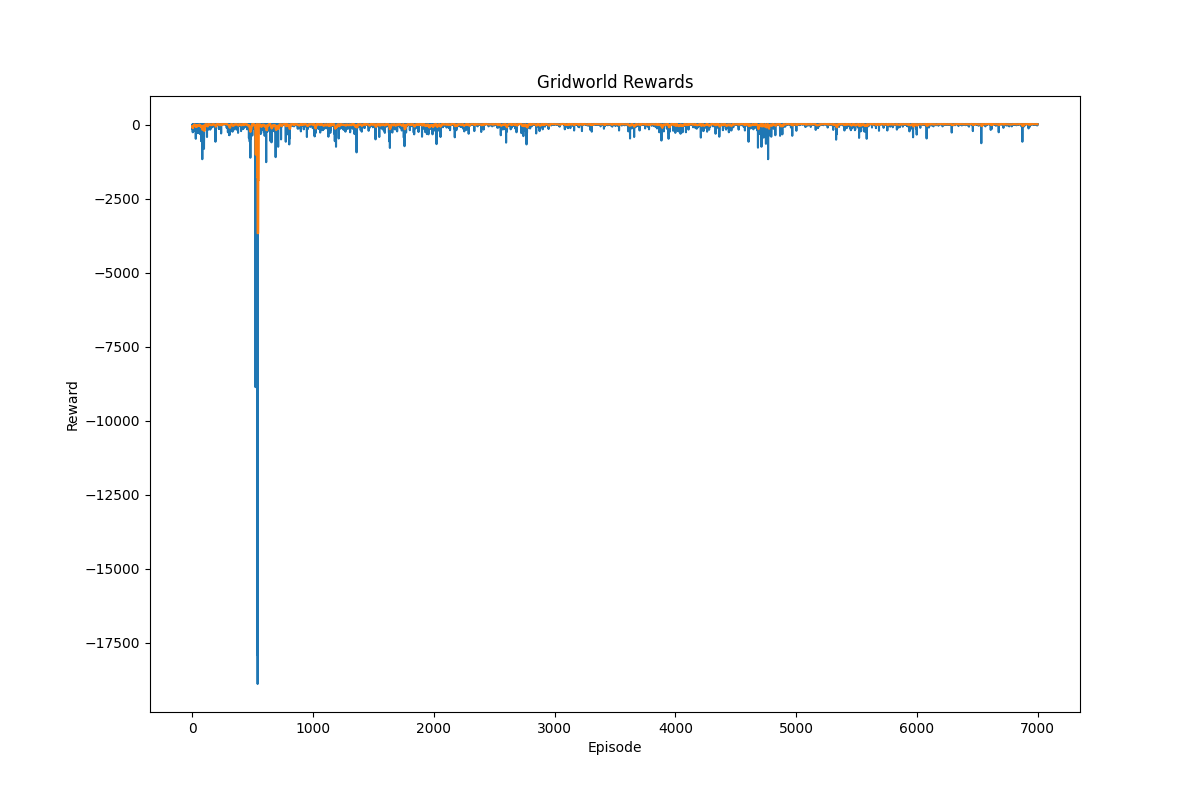
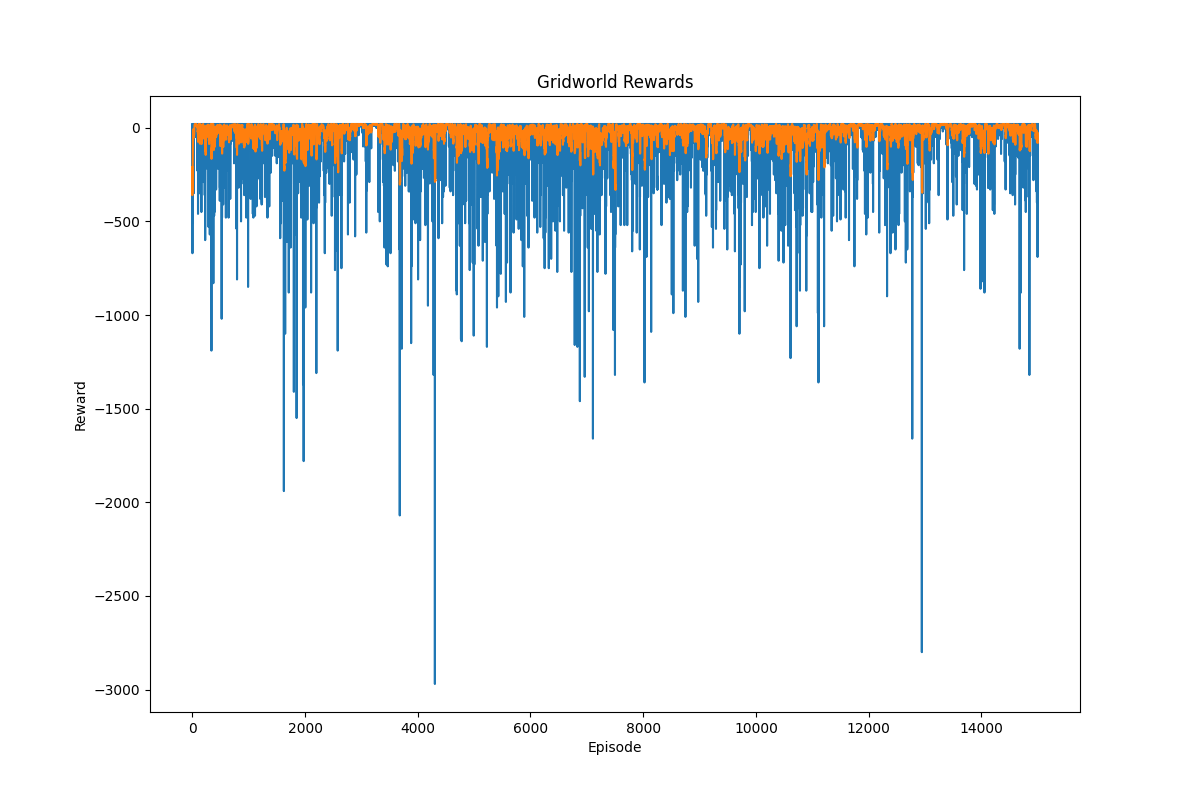
pushing ideal qtable

diff --git a/q_learning_evaluate.py b/q_learning_evaluate.py
@@ -1,10 +1,9 @@
 import numpy as np 
 import pickle
-from qlearning_training import select_optimal_action, reset_enviroment, initialize_state_matrix, identifiesgoal_state, identifies_state
+from qlearning_training import select_optimal_action, reset_enviroment, initialize_state_matrix, identifiesgoal_state, identifies_state, next_step
 
 action_space = np.array([0,1,2,3])
 
-NUM_EPISODES = 100
 
 def select_optimal_path(q_table,enviroment):
     enviroment[0][0] = 1
@@ -12,8 +11,21 @@ def select_optimal_path(q_table,enviroment):
     k, l = identifiesgoal_state(enviroment, enviromentsize)
     state = int(state_matrix[i][j])
     goal_state = int(state_matrix[k][l])
+    states = []
+    states.append(state)
     print(state, goal_state,'\n')
     print('\n', q_table, '\n', enviroment)
+    old_state, reward, next_state = 0, 0, 0
+    while(int(reward)<20):
+        action = select_optimal_action(q_table, state)
+        reward, next_state = next_step(q_table, enviroment, action, state, old_state, goal_state)
+        old_state = state
+        print(old_state, next_state)
+        state = next_state
+        states.append(state)
+        print(states)
+        print(state, goal_state,'\n', enviroment)
+    print(states,'\n',q_table)
 
 def main():
     global state_matrix, enviromentsize

diff --git a/pickle_ideal/qlearning_training.py b/pickle_ideal/qlearning_training.py
@@ -12,11 +12,11 @@ from matplotlib import pyplot as plt
 
 
 #parameters of learning
-alpha = 0.5 #learning rate, learn more quickly if alpha is closer to 1
+alpha = 0.99
 gamma = 0.6 #use a higher gamma for smaller spaces because we value later rewards rather than former rewards
 epsilon = 0.05 #agent can do 100% exploitation (0) or 100% exploration (1)
 
-NUM_EPISODES = 15000
+NUM_EPISODES = 10000
 
 '''action space:
     0 - south (up)
